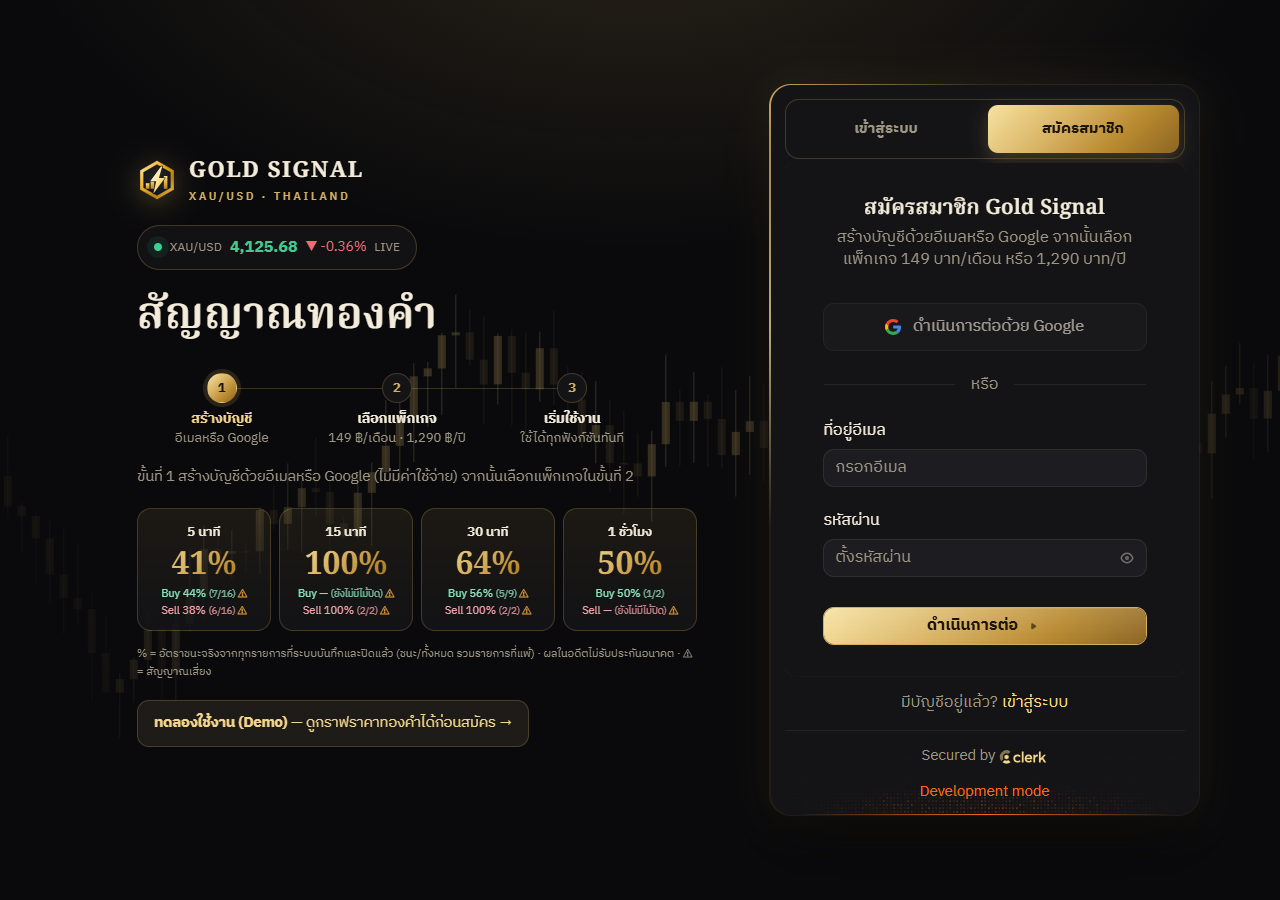
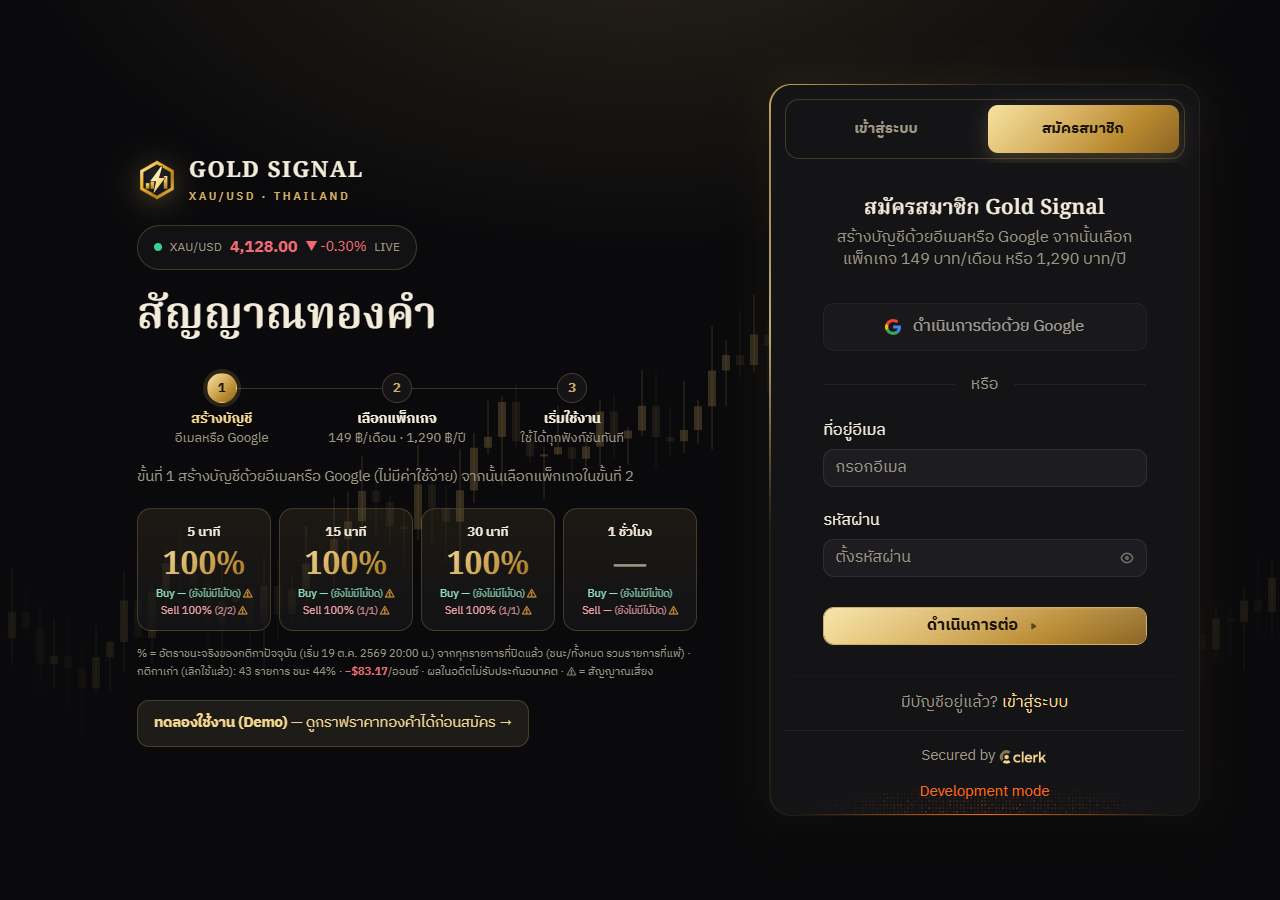
Docs: current vs replaced rules on sign-up tiles

diff --git a/README.md b/README.md
@@ -32,7 +32,7 @@
 <td><img src="docs/img/pricing.png" alt="Pricing"><br><sub><b>แพ็กเกจสมาชิก</b> — ชำระผ่าน Stripe (บัตร / PromptPay)</sub></td>
 </tr>
 <tr>
-<td><img src="docs/img/login.png" alt="Sign up"><br><sub><b>การเข้าสู่ระบบและสมัครสมาชิก</b> — จัดวางสองส่วน: ข้อมูลด้านซ้าย แบบฟอร์มด้านขวา พร้อมราคาทองคำแบบเรียลไทม์ อัตราชนะจริงรวมและแยกฝั่ง Buy / Sell ของแต่ละกรอบเวลา (จากทุกรายการที่ระบบบันทึก รวมรายการที่ขาดทุน) ขั้นตอน 3 ขั้น และคำถามที่พบบ่อย</sub></td>
+<td><img src="docs/img/login.png" alt="Sign up"><br><sub><b>การเข้าสู่ระบบและสมัครสมาชิก</b> — จัดวางสองส่วน: ข้อมูลด้านซ้าย แบบฟอร์มด้านขวา พร้อมราคาทองคำแบบเรียลไทม์ อัตราชนะจริงของกติกาปัจจุบันรวมและแยกฝั่ง Buy / Sell ของแต่ละกรอบเวลา พร้อมผลของกติกาเดิมที่เลิกใช้ (รวมรายการที่ขาดทุนทั้งหมด) ขั้นตอน 3 ขั้น และคำถามที่พบบ่อย</sub></td>
 <td><img src="docs/img/marketing.png" alt="Back office"><br><sub><b>ระบบหลังบ้าน</b> — ผู้ช่วยร่างประกาศการตลาดจากข้อมูลจริง</sub></td>
 </tr>
 </table>
